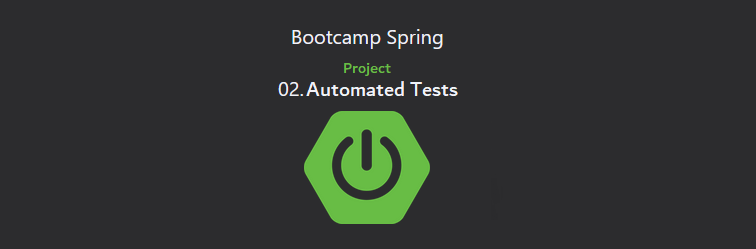
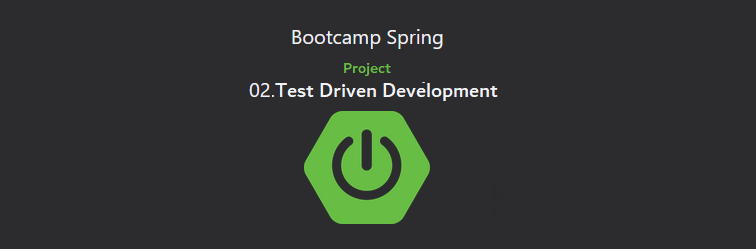
update about image

Changed region(s): [[0.3042, 0.3092, 0.6693, 0.3936]]

diff --git a/README.md b/README.md
@@ -12,7 +12,7 @@
 # About
 This project was developed as a TDD challenge, using Spring Boot and the JUnit testing framework. The goal of the challenge was to implement automated tests for two control classes: CityController and EventController, using the TDD (Test Driven Development) software development pattern.
 
-[DevSuperior](https://devsuperior.com.br/) Spring Boot Bootcamp Project 0.2: Automated Tests. 
+[DevSuperior](https://devsuperior.com.br/) Spring Boot Bootcamp Project 0.2: TDD (Test Driven Development). 
 
 
 ## Technologies used
